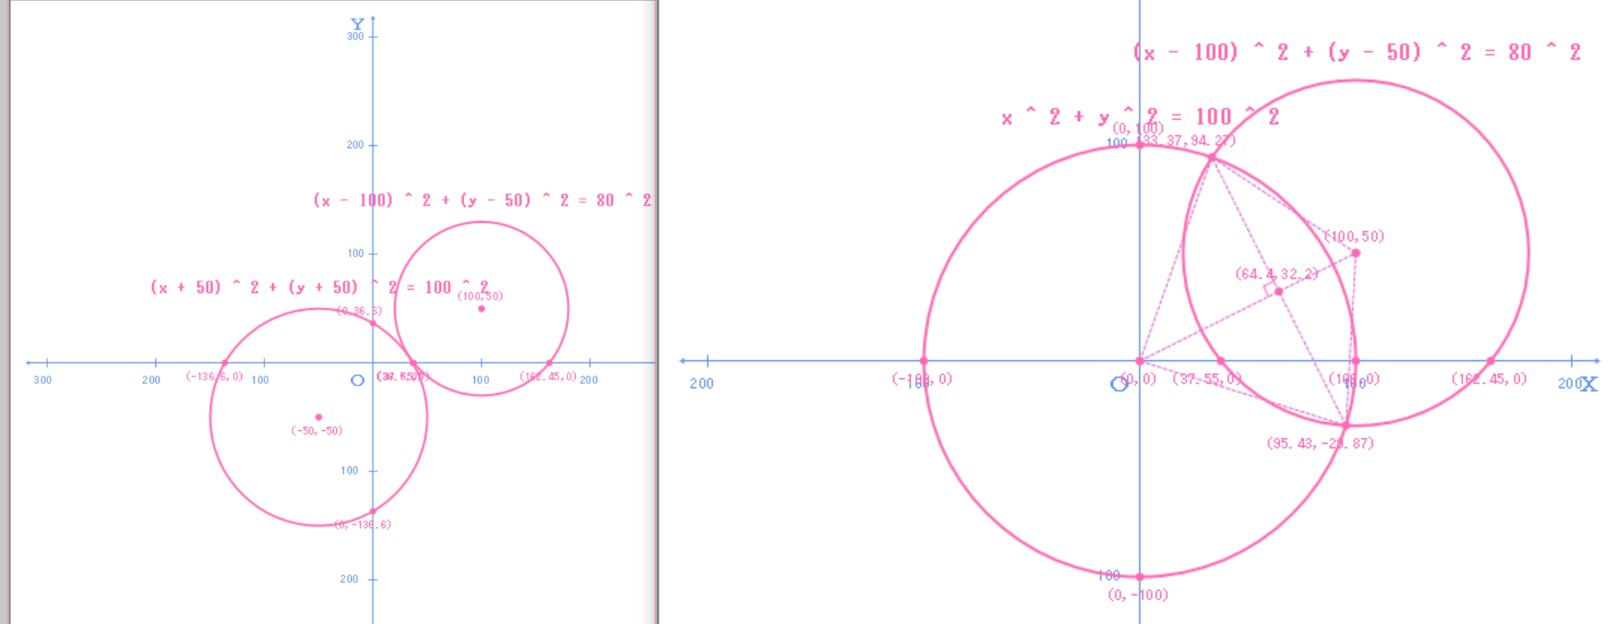
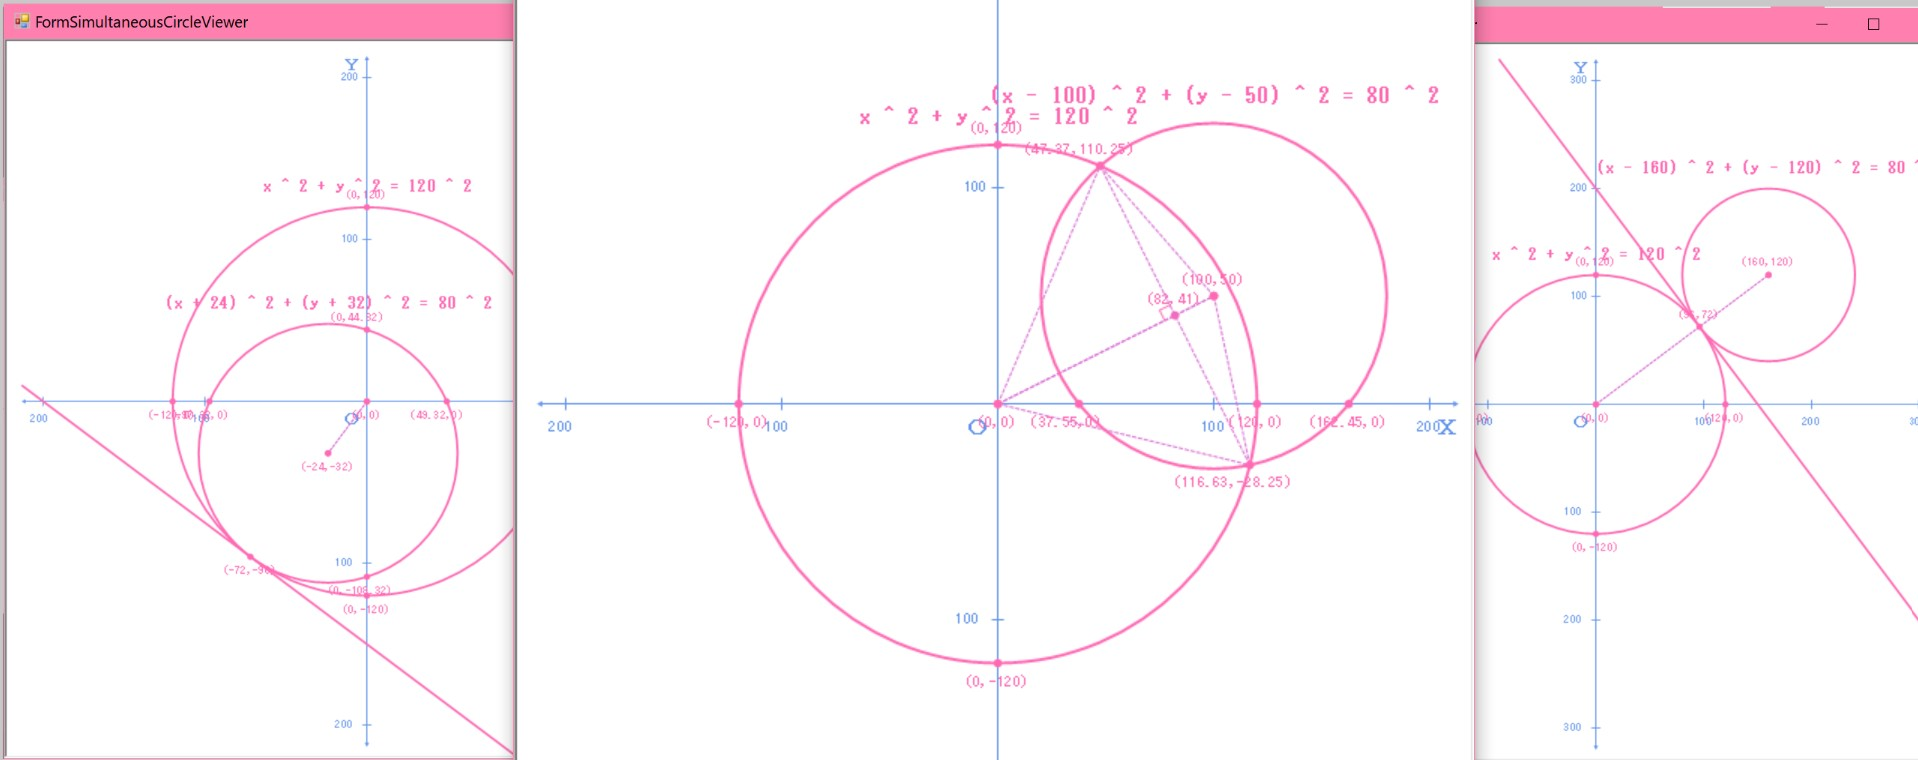
2022-10-12-1320

diff --git a/WinFormSample/Viewer/CoordinateAlgorithm/MainSimultaneousCircleViewer.cs b/WinFormSample/Viewer/CoordinateAlgorithm/MainSimultaneousCircleViewer.cs
@@ -26,9 +26,9 @@ namespace WinFormGUI.WinFormSample.Viewer.CoordinateAlgorithm
 {
     class MainSimultaneousCircleViewer
     {
-        //[STAThread]
-        //static void Main()
-        public void Main()
+        [STAThread]
+        static void Main()
+        //public void Main()
         {
             Console.WriteLine("new FormSimultaneousCircleViewer()");
 
@@ -61,15 +61,18 @@ namespace WinFormGUI.WinFormSample.Viewer.CoordinateAlgorithm
             circle = new AlgoCoordinateCircle(pic);
             circle.DrawCoordinateAxis();
 
-            var eqCircle1 = new EquationCircle(radiusSq: 100M * 100M, new PointF(0, 0));
-            var eqCircle2 = new EquationCircle(radiusSq: 20M * 20M, new PointF(84.8528f, 84.8528f));
-           
+            var eqCircle1 = new EquationCircle(radius: 120M, new PointF(0, 0));
+            var eqCircle2 = new EquationCircle(radius: 80M, new PointF(100, 50));
+
             //var eqLinear = new EquationLinear(eqCircle1.CircleCenterPoint, eqCircle2.CircleCenterPoint);
-            //PointF pt = circle.AlgoDistanceOnLinePoint(eqCircle1.Radius + eqCircle2.Radius,
+            //PointF circumscribePoint = circle.AlgoDistanceOnLinePoint(eqCircle1.Radius + eqCircle2.Radius,
             //    eqCircle1.CircleCenterPoint, eqLinear);
-            //Console.WriteLine($"pt: ({pt.X}f,{pt.Y}f)");
-            
-            circle.DrawMultiCircleFunction(
+            //PointF inscribePoint = circle.AlgoDistanceOnLinePoint(eqCircle1.Radius - eqCircle2.Radius,
+            //    eqCircle1.CircleCenterPoint, eqLinear);
+            //Console.WriteLine($"circumscribePoint: ({circumscribePoint.X}f,{circumscribePoint.Y}f)");
+            //Console.WriteLine($"inscribePoint: ({inscribePoint.X}f,{inscribePoint.Y}f)");
+
+            circle.DrawMultiCircleFunction(scaleRateHere: 1.5M,
                 new ICoordinateEquation[] { eqCircle1, eqCircle2, /*eqLinear*/ });
             
             this.Controls.AddRange(new Control[]
